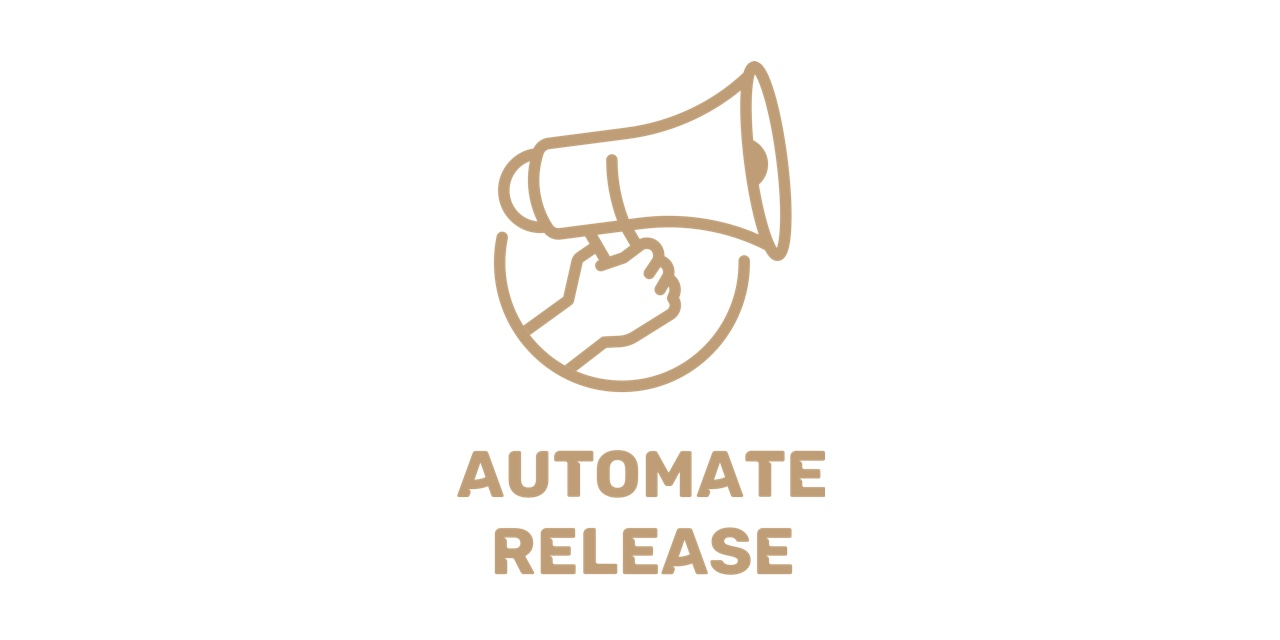
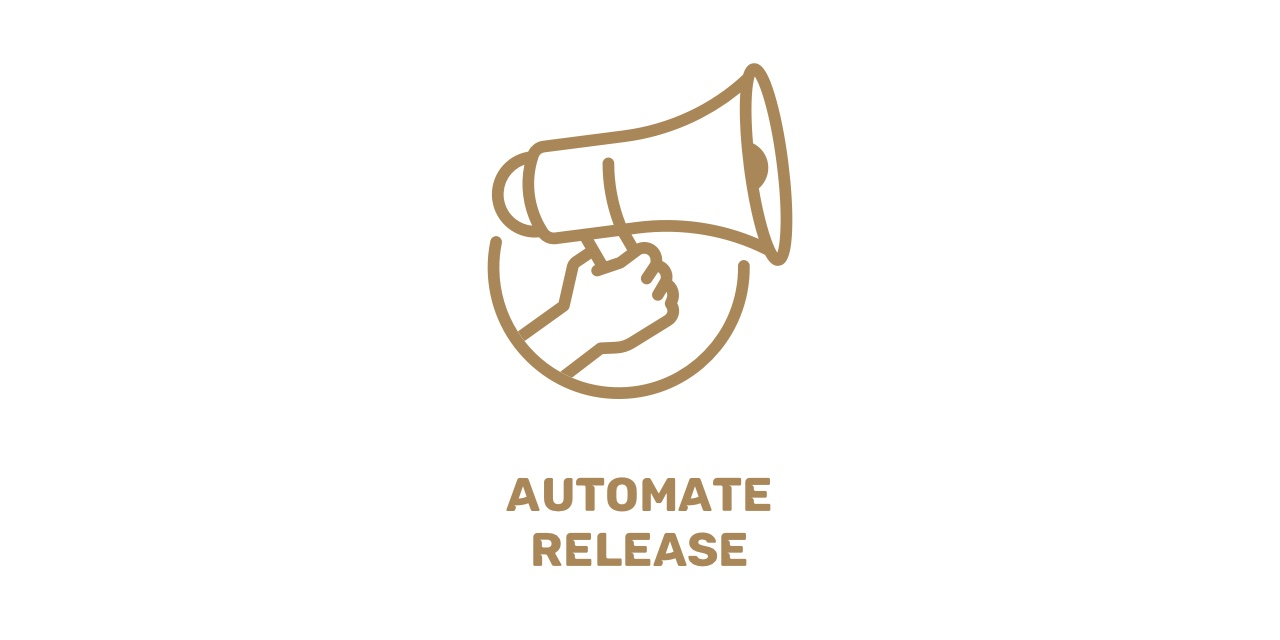
fix: use a color with better contrast
related: https://twitter.com/color_OTD/status/1277439644301475841

closes #28

Changed region(s): [[0.375, 0.0938, 0.625, 0.625], [0.3438, 0.6875, 0.6562, 0.9062]]

diff --git a/index.html b/index.html
@@ -119,7 +119,7 @@
       name: 'Automate Release',
       logo: 'media/headline.png',
       repo: 'Kikobeats/automate-release',
-      themeColor: '#C09F78',
+      themeColor: '#a98759',
       plugins: [
         function(hook, vm) {
           hook.ready(function() {
